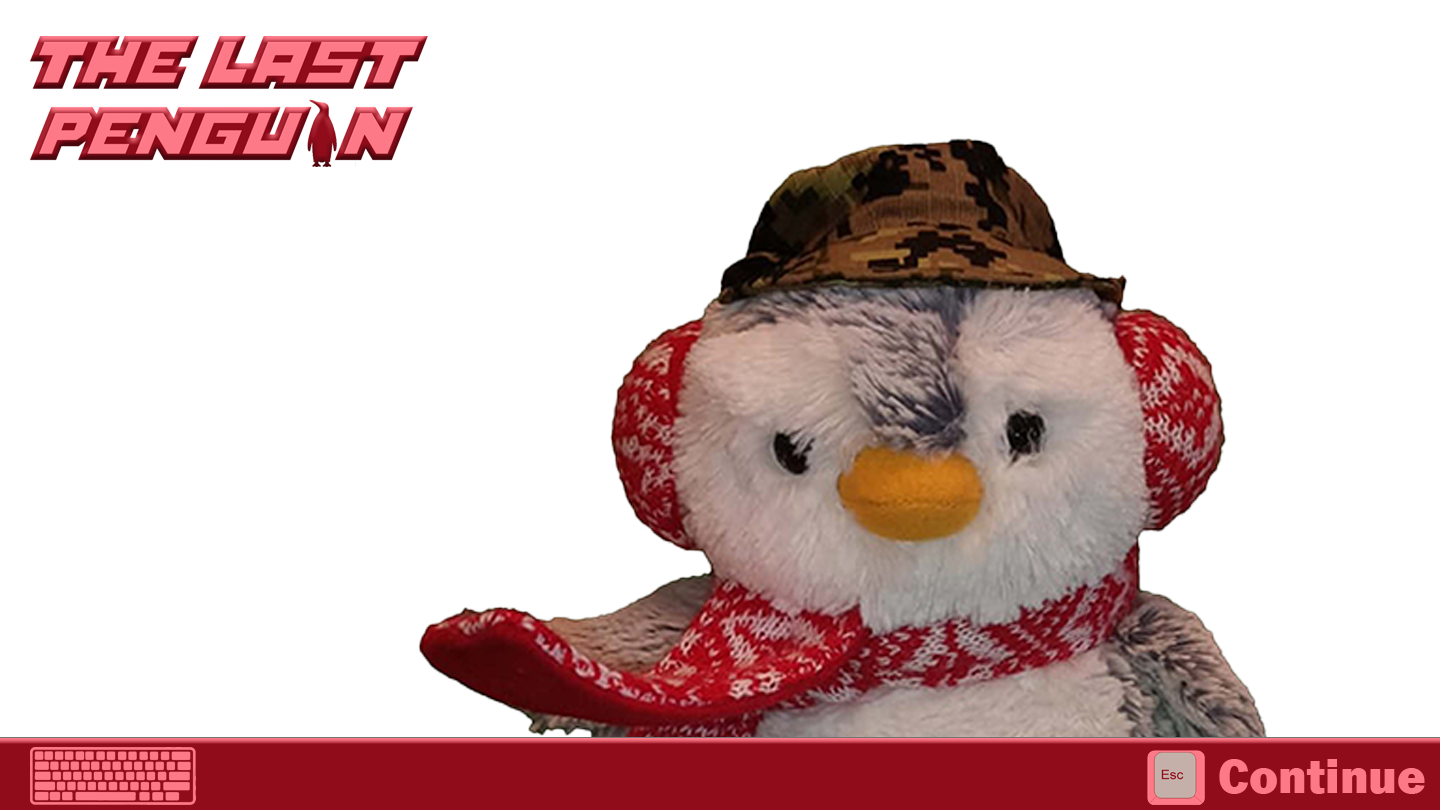
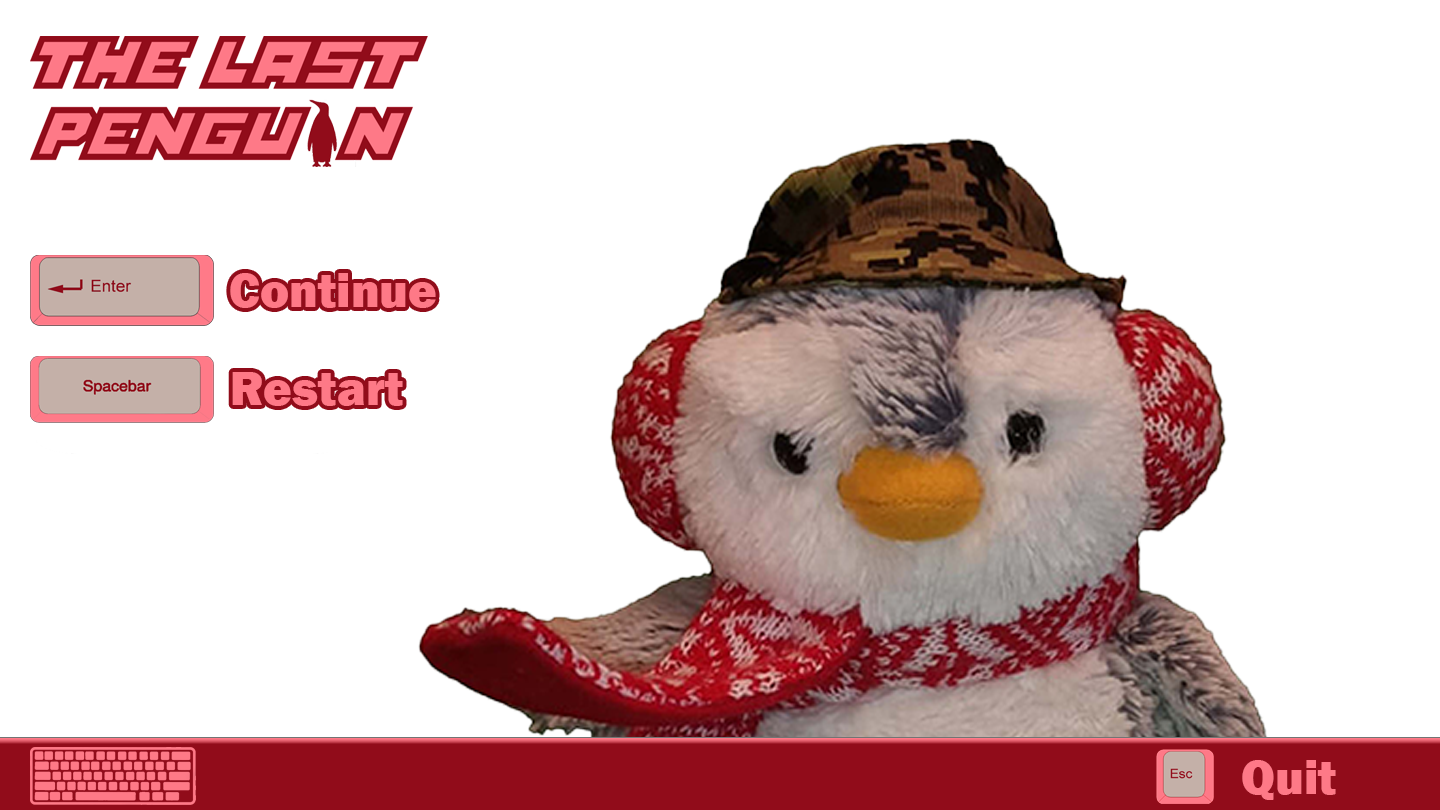
controller support

diff --git a/Project/Player.cs b/Project/Player.cs
@@ -21,6 +21,9 @@ namespace Project
         const int gravity = 2;
         Vector2 velocity = Vector2.Zero;
         bool pausing = false;
+        bool unpausing = false;
+        public bool Controller;
+
 
         public Player(Texture2D _texture, Vector2 _position, Rectangle _boundingBox, Game _game) : base(_texture, _position, _boundingBox)
         {
@@ -43,12 +46,15 @@ namespace Project
                 frames = 6;
 
                 // What does the player want to do?
-                int dir = 0;                
-                if (Keyboard.GetState().IsKeyDown(Keys.A)) dir--;
-                if (Keyboard.GetState().IsKeyDown(Keys.D)) dir++;
-                bool jump = Keyboard.GetState().IsKeyDown(Keys.Space) && heightOverFloor == 0;
+                int dir = 0;
+                Vector2 leftthumbstick = GamePad.GetState(0).ThumbSticks.Left;
+
+
+                if (Keyboard.GetState().IsKeyDown(Keys.A) || leftthumbstick.X < 0) dir--;
+                if (Keyboard.GetState().IsKeyDown(Keys.D) || leftthumbstick.X > 0) dir++;
+                bool jump = (Keyboard.GetState().IsKeyDown(Keys.Space) || GamePad.GetState(0).IsButtonDown(Buttons.A)) && heightOverFloor == 0;
                 bool falling = !isjumping && heightOverFloor > 0;
-                bool sliding = Keyboard.GetState().IsKeyDown(Keys.LeftShift) && heightOverFloor == 0;
+                bool sliding = (Keyboard.GetState().IsKeyDown(Keys.LeftShift) || GamePad.GetState(0).IsButtonDown(Buttons.LeftTrigger)) && heightOverFloor == 0;
                 if (jump)
                 {
                     isjumping = true;
@@ -117,17 +123,32 @@ namespace Project
             }
             spriteBatch.Draw(Texture, Position, sourceRect, Color.White);
 
-            if (Keyboard.GetState().IsKeyDown(Keys.Escape))
+            if (Keyboard.GetState().IsKeyDown(Keys.Escape) || GamePad.GetState(0).IsButtonDown(Buttons.Start))
             {
                 pausing = true;
+                if (GamePad.GetState(0).IsButtonDown(Buttons.Start))
+                    Controller = true;
+                else
+                    Controller = false;
             }
-            else
-                if (pausing)
-                {
-                    Game.paused = !Game.paused;
-                    pausing = false;
-                }
+            else if (pausing)
+            {                
+                Game.paused = true;
+                pausing = false;                
+            }
 
+            if (!pausing && Game.paused)
+            {
+                if (Keyboard.GetState().IsKeyDown(Keys.Enter) || GamePad.GetState(0).IsButtonDown(Buttons.A))
+                {
+                    unpausing = true;
+                }
+                else if (unpausing)
+                {
+                    Game.paused = false;
+                    unpausing = false;
+                }
+            }
 
 
         }

diff --git a/Project/Game.cs b/Project/Game.cs
@@ -20,12 +20,15 @@ namespace Project
         public Texture2D BlockSprite;
         private Texture2D background;
         public Texture2D PauseOverlay;
+        public Texture2D PauseOverlayController;
         public List<Player> Players = new List<Player>();
         public List<Block> Blocks = new List<Block>();
         public int frameCount = 0;
 
         public Game()
         {
+            int height;
+            int width;
             graphics = new GraphicsDeviceManager(this);
             graphics.PreferredBackBufferWidth = 1440;  
             // set this value to the desired width of your window
@@ -33,6 +36,11 @@ namespace Project
             // set this value to the desired height of your window 
             graphics.ApplyChanges();
             Content.RootDirectory = "Content";
+            Window.IsBorderless = false;
+            height = (graphics.GraphicsDevice.Adapter.CurrentDisplayMode.Height - 810) / 2;
+            width = (graphics.GraphicsDevice.Adapter.CurrentDisplayMode.Width - 1440) / 2;
+            Window.Position = new Point(width, height - 30);
+
         }
 
         public void Log(String s)
@@ -53,6 +61,8 @@ namespace Project
             BlockSprite = Content.Load<Texture2D>("block");
             background = Content.Load<Texture2D>("Background");
             PauseOverlay = Content.Load<Texture2D>("Pause Menu");
+            PauseOverlayController = Content.Load<Texture2D>("Pause Menu Controller");
+
 
             Players.Add(new Player(PlayerSprite, new Vector2(100, 530), new Rectangle(2, 2, 24, 36), this));
             Blocks.Add(new Block(BlockSprite, new Vector2(600, 540), new Rectangle(0, 0, 28, 40)));
@@ -72,8 +82,11 @@ namespace Project
 
         protected override void Update(GameTime gameTime)
         {
-            if (GamePad.GetState(PlayerIndex.One).Buttons.Back == ButtonState.Pressed || Keyboard.GetState().IsKeyDown(Keys.F1))
-                Exit();
+            if (paused == true)
+            {
+                if (GamePad.GetState(PlayerIndex.One).Buttons.Start == ButtonState.Pressed || Keyboard.GetState().IsKeyDown(Keys.Escape))
+                    Exit();
+            }
 
             base.Update(gameTime);
         }
@@ -99,7 +112,12 @@ namespace Project
             Players[0].Update(gameTime, spriteBatch);
 
             if (paused)
-            spriteBatch.Draw(PauseOverlay, Vector2.Zero, Color.White);
+            {
+                if (Players[0].Controller)
+                    spriteBatch.Draw(PauseOverlayController, Vector2.Zero, Color.White);
+                else
+                    spriteBatch.Draw(PauseOverlay, Vector2.Zero, Color.White);
+            }
 
             spriteBatch.End();
 
